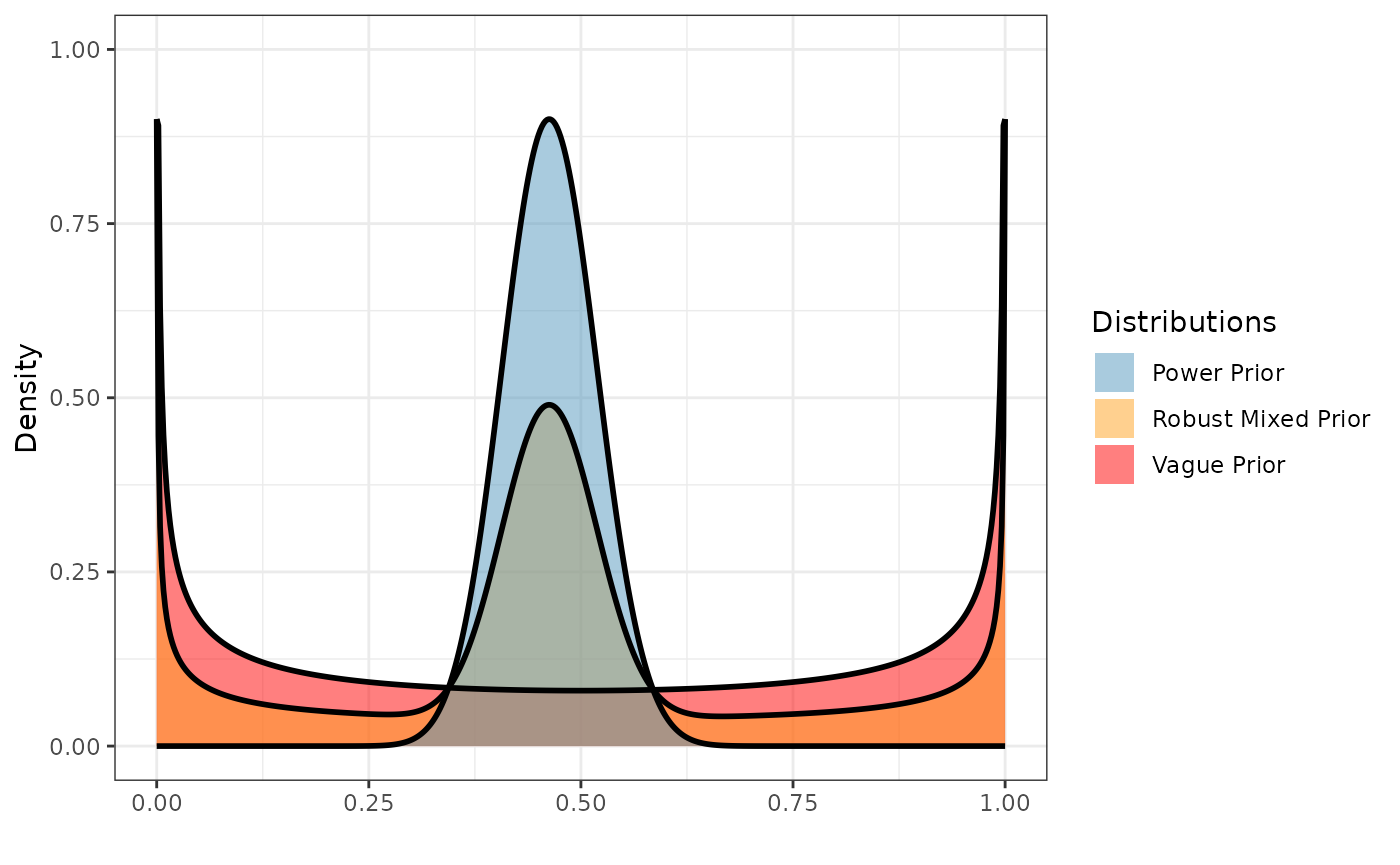
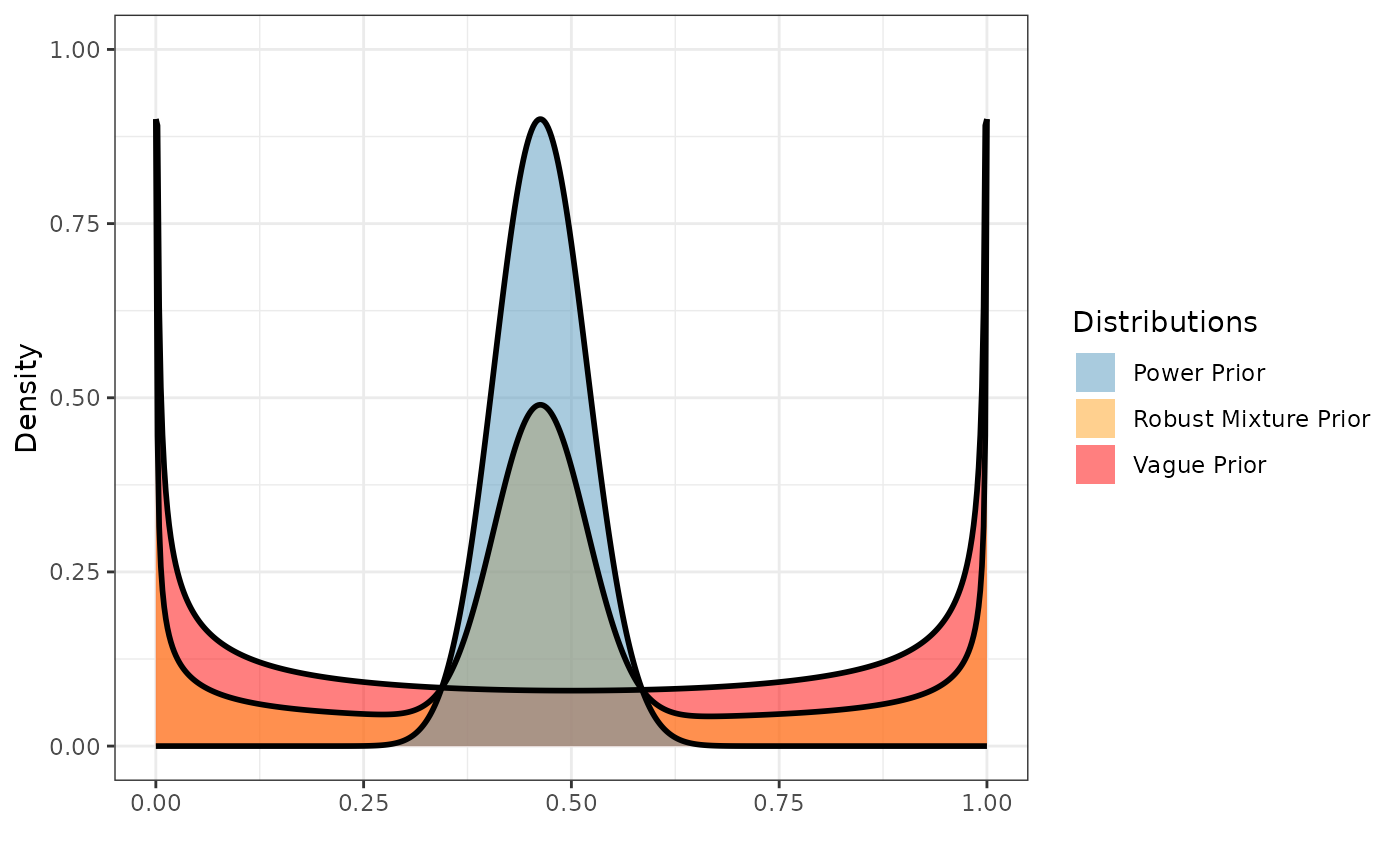
Deploying to gh-pages from @ GSK-Biostatistics/beastt@bc3232f031e04f7de9dff4405227b55e2b494df0 🚀

diff --git a/articles/continuous.html b/articles/continuous.html
@@ -305,21 +305,26 @@ previously created to construct a robust mixture prior which we can then
 pass to <code>calc_post_norm</code>. In general, we can define our prior
 to be a mixture distribution with an arbitrary number of normal and/or
 <math display="inline" xmlns="http://www.w3.org/1998/Math/MathML"><semantics><mi>t</mi><annotation encoding="application/x-tex">t</annotation></semantics></math>
-components, in which case the resulting posterior distribution will also
-be a mixture of normal components. If any component of the prior is a
+components. If any component of the prior is a
 <math display="inline" xmlns="http://www.w3.org/1998/Math/MathML"><semantics><mi>t</mi><annotation encoding="application/x-tex">t</annotation></semantics></math>
 distribution, the prior will be approximated with the mixture of two
 normal distributions.</p>
 <div class="sourceCode" id="cb8"><pre class="downlit sourceCode r">
 <code class="sourceCode R"><span><span class="va">mixed_prior</span> <span class="op">&lt;-</span> <span class="fu"><a href="../reference/robustify_norm.html">robustify_norm</a></span><span class="op">(</span><span class="va">pwr_prior</span>, <span class="va">n_external</span><span class="op">)</span></span>
-<span></span>
-<span><span class="va">post_mixed</span> <span class="op">&lt;-</span> <span class="fu"><a href="../reference/calc_post_norm.html">calc_post_norm</a></span><span class="op">(</span><span class="va">ps_obj</span>,</span>
+<span><span class="va">vague</span> <span class="op">&lt;-</span> <span class="fu"><a href="https://pkg.mitchelloharawild.com/distributional/reference/dist_normal.html" class="external-link">dist_normal</a></span><span class="op">(</span><span class="fl">50</span>, <span class="fl">10</span><span class="op">)</span></span>
+<span><span class="fu"><a href="../reference/plot_dist.html">plot_dist</a></span><span class="op">(</span><span class="st">"Vague Prior"</span> <span class="op">=</span> <span class="va">vague</span>,</span>
+<span>          <span class="st">"Robust Mixture Prior"</span> <span class="op">=</span> <span class="va">mixed_prior</span>,</span>
+<span>          <span class="st">"Power Prior"</span> <span class="op">=</span> <span class="va">pwr_prior</span><span class="op">)</span></span></code></pre></div>
+<p><img src="continuous_files/figure-html/unnamed-chunk-7-1.png" width="700"></p>
+<p>The resulting posterior distribution will also be a mixture of normal
+components.</p>
+<div class="sourceCode" id="cb9"><pre class="downlit sourceCode r">
+<code class="sourceCode R"><span><span class="va">post_mixed</span> <span class="op">&lt;-</span> <span class="fu"><a href="../reference/calc_post_norm.html">calc_post_norm</a></span><span class="op">(</span><span class="va">ps_obj</span>,</span>
 <span>                             response <span class="op">=</span> <span class="va">y</span>, </span>
 <span>                             prior<span class="op">=</span> <span class="va">mixed_prior</span>,</span>
 <span>                             internal_sd <span class="op">=</span> <span class="va">sd_internal_control</span><span class="op">)</span></span>
-<span><span class="fu"><a href="../reference/plot_dist.html">plot_dist</a></span><span class="op">(</span><span class="st">"Control Posterior"</span> <span class="op">=</span> <span class="va">post</span>, </span>
-<span>          <span class="st">"Mixed Posterior"</span> <span class="op">=</span> <span class="va">post_mixed</span><span class="op">)</span></span></code></pre></div>
-<p><img src="continuous_files/figure-html/unnamed-chunk-7-1.png" width="700"></p>
+<span><span class="fu"><a href="../reference/plot_dist.html">plot_dist</a></span><span class="op">(</span><span class="va">post_mixed</span><span class="op">)</span></span></code></pre></div>
+<p><img src="continuous_files/figure-html/unnamed-chunk-8-1.png" width="700"></p>
 <p>Lastly, we can also create a posterior distribution for the mean of
 the active treatment arm by reading the internal data directly into the
 <code>calc_post_norm</code> function and assuming the SD of the internal
@@ -328,17 +333,16 @@ vague normal prior with mean 50 and SD 10.</p>
 <p><strong>As noted earlier, be sure to read in only the data for the
 internal active treatment arm while excluding the internal control
 data.</strong></p>
-<div class="sourceCode" id="cb9"><pre class="downlit sourceCode r">
+<div class="sourceCode" id="cb10"><pre class="downlit sourceCode r">
 <code class="sourceCode R"><span><span class="va">sd_internal_treated</span> <span class="op">&lt;-</span> <span class="fl">0.15</span></span>
 <span><span class="va">post_treated</span> <span class="op">&lt;-</span> <span class="fu"><a href="../reference/calc_post_norm.html">calc_post_norm</a></span><span class="op">(</span>internal_data <span class="op">=</span> <span class="fu"><a href="https://dplyr.tidyverse.org/reference/filter.html" class="external-link">filter</a></span><span class="op">(</span><span class="va">int_norm_df</span>, <span class="va">trt</span> <span class="op">==</span> <span class="fl">1</span><span class="op">)</span>,</span>
 <span>                               response <span class="op">=</span> <span class="va">y</span>,</span>
 <span>                               prior <span class="op">=</span> <span class="fu"><a href="https://pkg.mitchelloharawild.com/distributional/reference/dist_normal.html" class="external-link">dist_normal</a></span><span class="op">(</span><span class="fl">50</span>, <span class="fl">10</span><span class="op">)</span>,</span>
 <span>                               internal_sd <span class="op">=</span> <span class="va">sd_internal_treated</span><span class="op">)</span></span>
 <span></span>
-<span><span class="fu"><a href="../reference/plot_dist.html">plot_dist</a></span><span class="op">(</span><span class="st">"Control Posterior"</span> <span class="op">=</span> <span class="va">post</span>, </span>
-<span>          <span class="st">"Mixed Posterior"</span> <span class="op">=</span> <span class="va">post_mixed</span>,</span>
+<span><span class="fu"><a href="../reference/plot_dist.html">plot_dist</a></span><span class="op">(</span><span class="st">"Control Robust Mixture Posterior"</span> <span class="op">=</span> <span class="va">post_mixed</span>,</span>
 <span>          <span class="st">"Treatment Posterior"</span> <span class="op">=</span> <span class="va">post_treated</span><span class="op">)</span></span></code></pre></div>
-<p><img src="continuous_files/figure-html/unnamed-chunk-8-1.png" width="700"></p>
+<p><img src="continuous_files/figure-html/unnamed-chunk-9-1.png" width="700"></p>
   </div>
 
   <div class="col-md-3 hidden-xs hidden-sm" id="pkgdown-sidebar">

diff --git a/articles/binary.html b/articles/binary.html
@@ -284,7 +284,7 @@ to the components.</p>
 <span>                          weights <span class="op">=</span> <span class="fu"><a href="https://rdrr.io/r/base/c.html" class="external-link">c</a></span><span class="op">(</span><span class="fl">0.5</span>, <span class="fl">0.5</span><span class="op">)</span><span class="op">)</span></span>
 <span><span class="va">vague</span> <span class="op">&lt;-</span> <span class="fu"><a href="https://pkg.mitchelloharawild.com/distributional/reference/dist_beta.html" class="external-link">dist_beta</a></span><span class="op">(</span><span class="fl">0.5</span>, <span class="fl">0.5</span><span class="op">)</span></span>
 <span><span class="fu"><a href="../reference/plot_dist.html">plot_dist</a></span><span class="op">(</span><span class="st">"Vague Prior"</span> <span class="op">=</span> <span class="va">vague</span>, </span>
-<span>          <span class="st">"Robust Mixed Prior"</span> <span class="op">=</span> <span class="va">mix_prior</span>,</span>
+<span>          <span class="st">"Robust Mixture Prior"</span> <span class="op">=</span> <span class="va">mix_prior</span>,</span>
 <span>          <span class="st">"Power Prior"</span> <span class="op">=</span> <span class="va">pwr_prior</span><span class="op">)</span></span></code></pre></div>
 <p><img src="binary_files/figure-html/unnamed-chunk-7-1.png" width="700"></p>
 <p>We can pass the resulting robust mixture prior to
@@ -307,7 +307,7 @@ data.</strong></p>
 <code class="sourceCode R"><span><span class="va">post_treated</span> <span class="op">&lt;-</span> <span class="fu"><a href="../reference/calc_post_beta.html">calc_post_beta</a></span><span class="op">(</span>internal_data <span class="op">=</span> <span class="fu"><a href="https://dplyr.tidyverse.org/reference/filter.html" class="external-link">filter</a></span><span class="op">(</span><span class="va">int_binary_df</span>, <span class="va">trt</span> <span class="op">==</span> <span class="fl">1</span><span class="op">)</span>,</span>
 <span>                               response <span class="op">=</span> <span class="va">y</span>,</span>
 <span>                               prior <span class="op">=</span> <span class="fu"><a href="https://pkg.mitchelloharawild.com/distributional/reference/dist_beta.html" class="external-link">dist_beta</a></span><span class="op">(</span><span class="fl">0.5</span>, <span class="fl">0.5</span><span class="op">)</span><span class="op">)</span></span>
-<span><span class="fu"><a href="../reference/plot_dist.html">plot_dist</a></span><span class="op">(</span><span class="st">"Control Robust Mixed Posterior"</span> <span class="op">=</span> <span class="va">post_mixed</span>,</span>
+<span><span class="fu"><a href="../reference/plot_dist.html">plot_dist</a></span><span class="op">(</span><span class="st">"Control Robust Mixture Posterior"</span> <span class="op">=</span> <span class="va">post_mixed</span>,</span>
 <span>          <span class="st">"Treatment Posterior"</span> <span class="op">=</span> <span class="va">post_treated</span><span class="op">)</span></span></code></pre></div>
 <p><img src="binary_files/figure-html/unnamed-chunk-9-1.png" width="700"></p>
   </div>
